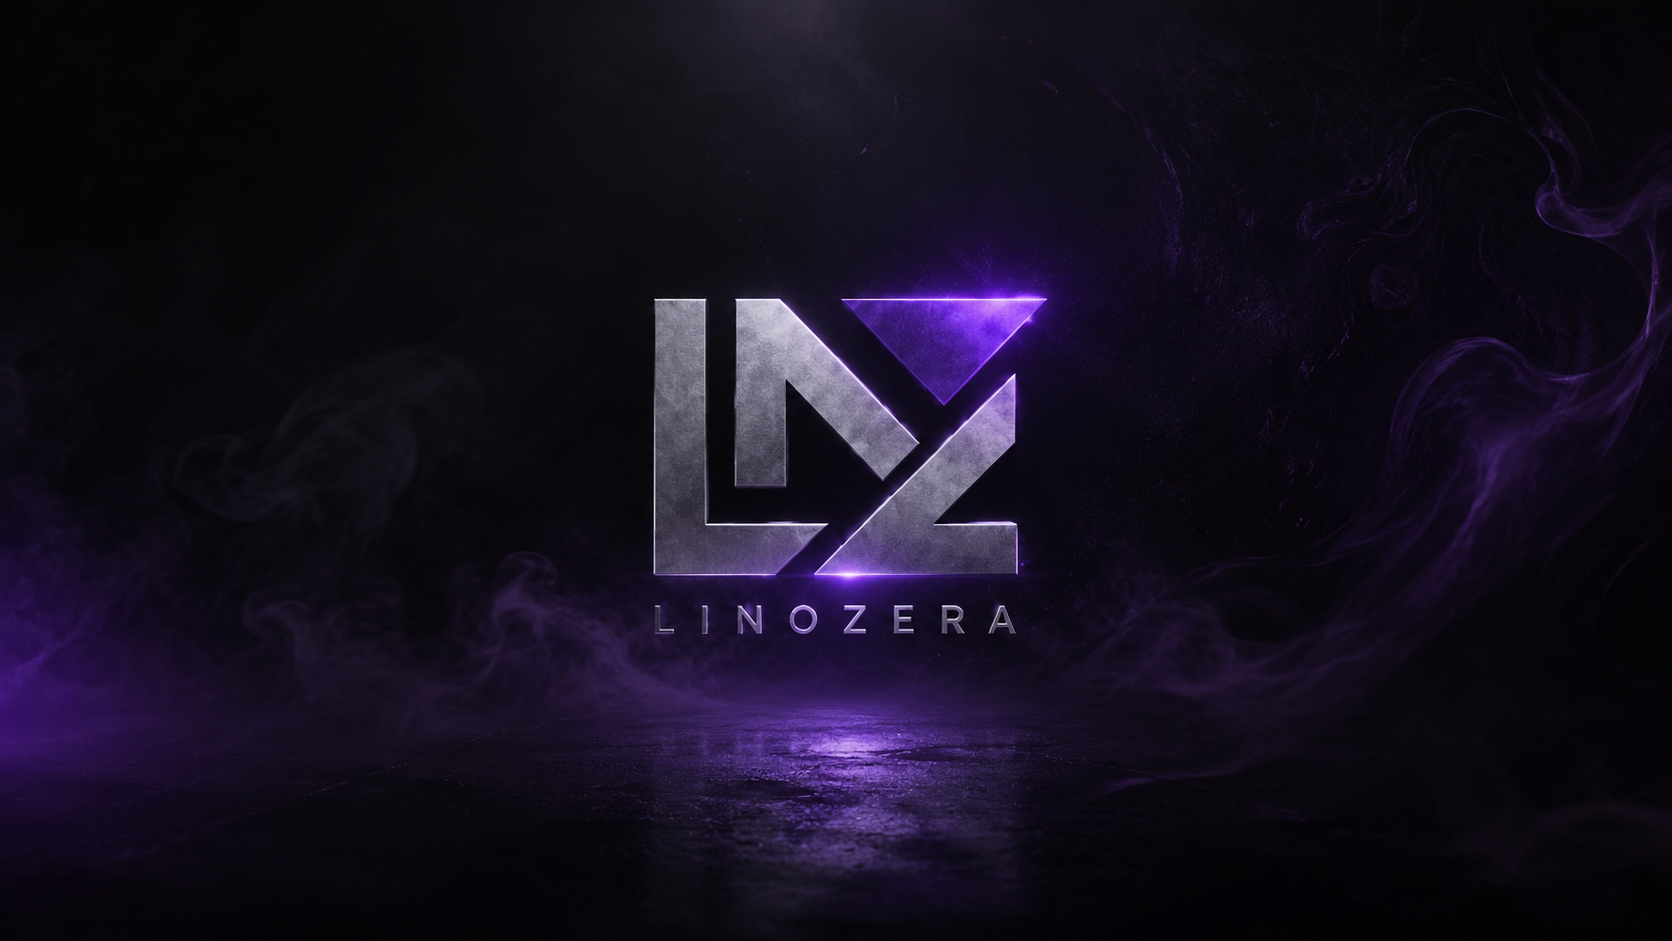
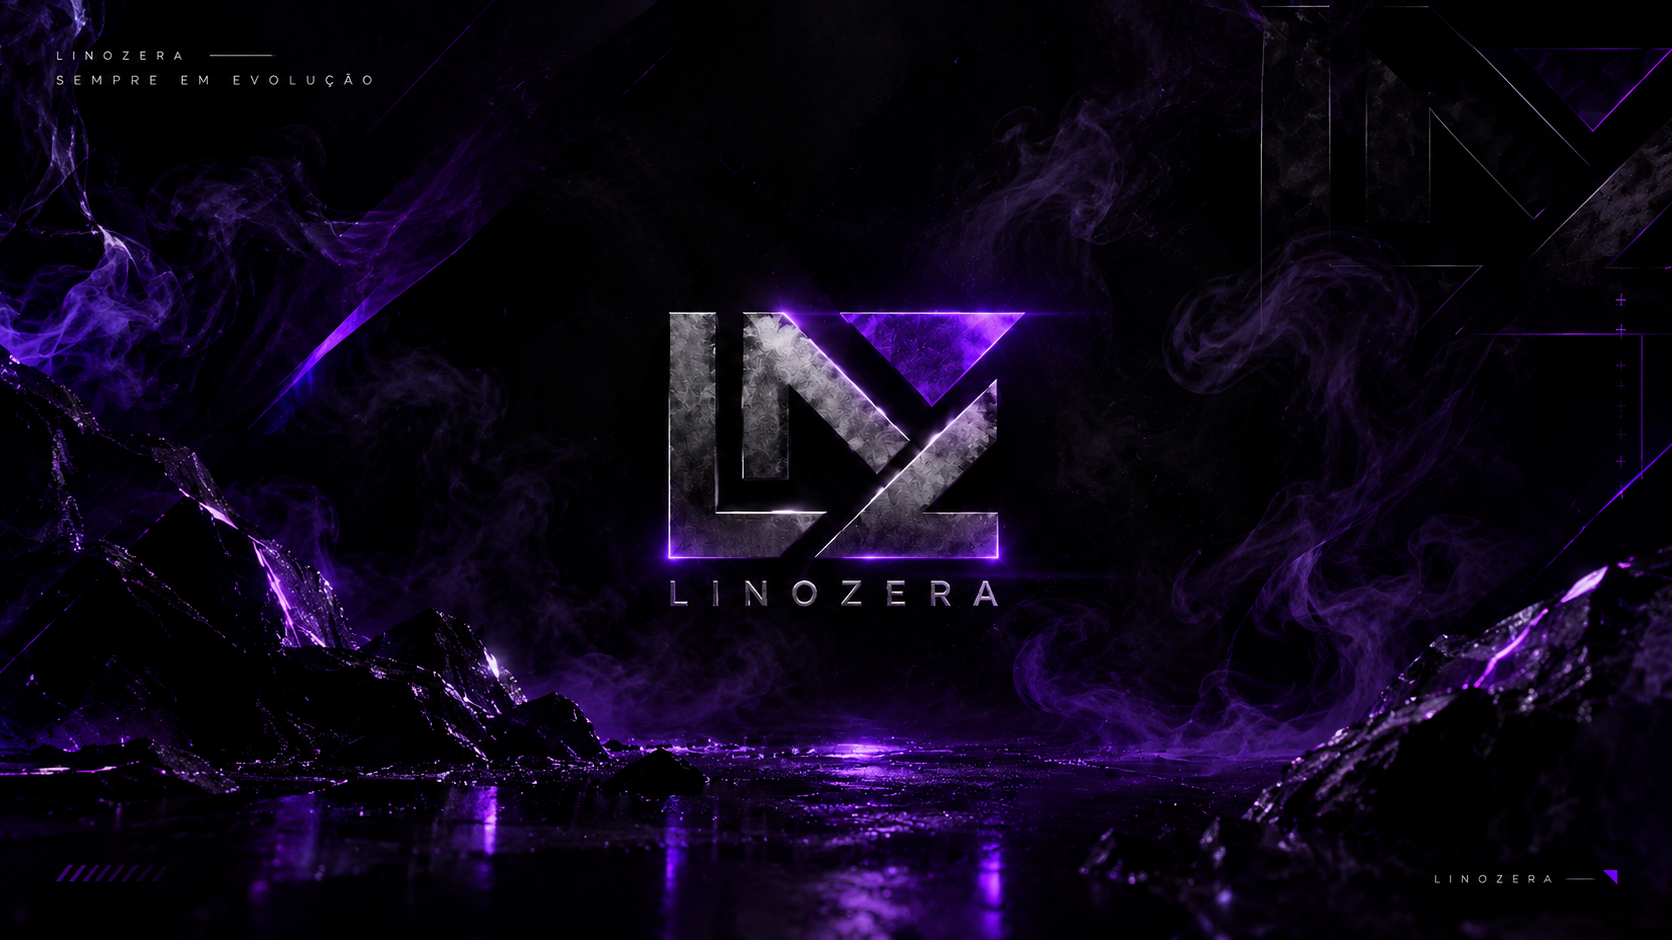
Add files via upload

diff --git a/public/style.css b/public/style.css
@@ -2388,3 +2388,193 @@ html[data-season-theme="default"] .background-art::after {
     background-position: center center !important;
   }
 }
+
+
+/* ============================================================
+   CORREÇÃO: TELAS SEPARADAS
+   - landing, prejoin e room nunca aparecem juntas
+   - cada tela ocupa a área certa sozinha
+   ============================================================ */
+
+#landingView,
+#prejoinView,
+#roomView {
+  width: 100%;
+}
+
+body[data-view="landing"] #landingView { display: block !important; }
+body[data-view="landing"] #prejoinView,
+body[data-view="landing"] #roomView { display: none !important; }
+
+body[data-view="prejoin"] #prejoinView { display: flex !important; }
+body[data-view="prejoin"] #landingView,
+body[data-view="prejoin"] #roomView { display: none !important; }
+
+body[data-view="room"] #roomView { display: grid !important; }
+body[data-view="room"] #landingView,
+body[data-view="room"] #prejoinView { display: none !important; }
+
+body[data-view="room"] {
+  overflow: hidden !important;
+}
+
+body[data-view="landing"],
+body[data-view="prejoin"] {
+  overflow-x: hidden !important;
+  overflow-y: auto !important;
+}
+
+#landingView {
+  min-height: 100vh !important;
+}
+
+#prejoinView {
+  min-height: 100vh !important;
+  align-items: center !important;
+  justify-content: center !important;
+}
+
+#roomView {
+  min-height: 100vh !important;
+  height: 100vh !important;
+}
+
+@media (max-width: 760px) {
+  body[data-view="room"] #roomView {
+    display: block !important;
+    min-height: 100dvh !important;
+    height: 100dvh !important;
+  }
+}
+
+
+/* ============================================================
+   FUNDO DA MARCA — BEM VISÍVEL EM TODO O APP
+   ============================================================ */
+
+html,
+body {
+  background: #050407 !important;
+}
+
+.background-art,
+html[data-season-theme="halloween"] .background-art,
+html[data-season-theme="default"] .background-art {
+  position: fixed !important;
+  inset: 0 !important;
+  background:
+    linear-gradient(rgba(3,2,6,.12), rgba(3,2,6,.20)),
+    url('/assets/brand-background.png') center center / cover no-repeat fixed !important;
+  opacity: 1 !important;
+  filter: saturate(1.07) contrast(1.03) brightness(1.03) !important;
+}
+
+.background-art::before,
+.background-art::after,
+html[data-season-theme="halloween"] .background-art::before,
+html[data-season-theme="halloween"] .background-art::after,
+html[data-season-theme="default"] .background-art::before,
+html[data-season-theme="default"] .background-art::after {
+  display: none !important;
+  content: none !important;
+}
+
+/* Todas as telas deixam o fundo aparecer */
+#landingView,
+#prejoinView,
+#roomView,
+.landing-view,
+.prejoin-view,
+.room-view {
+  background: transparent !important;
+}
+
+/* Tela inicial */
+.landing-shell,
+.public-section {
+  position: relative !important;
+  z-index: 2 !important;
+}
+
+.hero-copy {
+  text-shadow: 0 2px 14px rgba(0,0,0,.70) !important;
+}
+
+/* Painel de entrada translúcido */
+.entry-card,
+.public-card,
+.empty-public {
+  background: rgba(10,8,14,.72) !important;
+  border-color: rgba(255,255,255,.10) !important;
+}
+
+/* Sala: mesma imagem, mais visível */
+.room-stage {
+  background:
+    linear-gradient(rgba(3,2,6,.20), rgba(3,2,6,.26)),
+    url('/assets/brand-background.png') center center / cover no-repeat fixed !important;
+}
+
+/* Laterais e topo transparentes o bastante para mostrar a arte */
+.room-topbar,
+.room-sidebar,
+.chat-panel {
+  background: rgba(9,8,12,.76) !important;
+  border-color: rgba(255,255,255,.08) !important;
+}
+
+.invite-card,
+.room-controls,
+.audio-mixer-panel,
+.camera-dock,
+.modal-card,
+.participant-menu {
+  background: rgba(12,10,16,.80) !important;
+  border-color: rgba(255,255,255,.09) !important;
+}
+
+/* Modais também usam o fundo da marca por trás */
+.modal {
+  background: rgba(3,2,6,.28) !important;
+}
+.modal-backdrop {
+  background: rgba(2,1,4,.30) !important;
+}
+
+/* Remove qualquer decoração antiga que cubra a marca */
+.seasonal-decor,
+.discord-rail {
+  display: none !important;
+}
+
+/* Área vazia da transmissão deixa o logo/fundo visível */
+.empty-stage {
+  background: transparent !important;
+}
+.empty-stage::before,
+.empty-stage::after {
+  display: none !important;
+  content: none !important;
+}
+
+/* Chat com transparência */
+.chat-messages,
+.chat-compose {
+  background: rgba(7,6,10,.54) !important;
+}
+
+/* Mobile */
+@media (max-width: 760px) {
+  .background-art,
+  .room-stage {
+    background-position: center center !important;
+    background-attachment: scroll !important;
+  }
+
+  .entry-card,
+  .room-topbar,
+  .room-sidebar,
+  .chat-panel {
+    background: rgba(9,8,12,.80) !important;
+  }
+}

diff --git a/README.md b/README.md
@@ -383,3 +383,17 @@ O navegador ainda usa cache/localStorage para abrir mais rápido, mas depois do 
 - Fantasmas e lua removidos.
 - O fundo agora usa sempre a imagem da marca enviada pelo usuário.
 - O mesmo fundo aparece no início, na sala e nas áreas do aplicativo.
+
+
+## Correção feita
+- Tela inicial e sala agora ficam separadas.
+- Landing, prejoin e room não aparecem mais juntas.
+- Ao entrar na sala, a tela inicial some totalmente.
+
+
+## Fundo da marca atualizado
+
+- A nova imagem enviada foi aplicada como fundo em todo o aplicativo.
+- O fundo aparece na tela inicial, entrada, sala, chat e atrás dos modais.
+- As camadas escuras foram reduzidas para a imagem ficar bem mais visível.
+- As telas continuam separadas.
